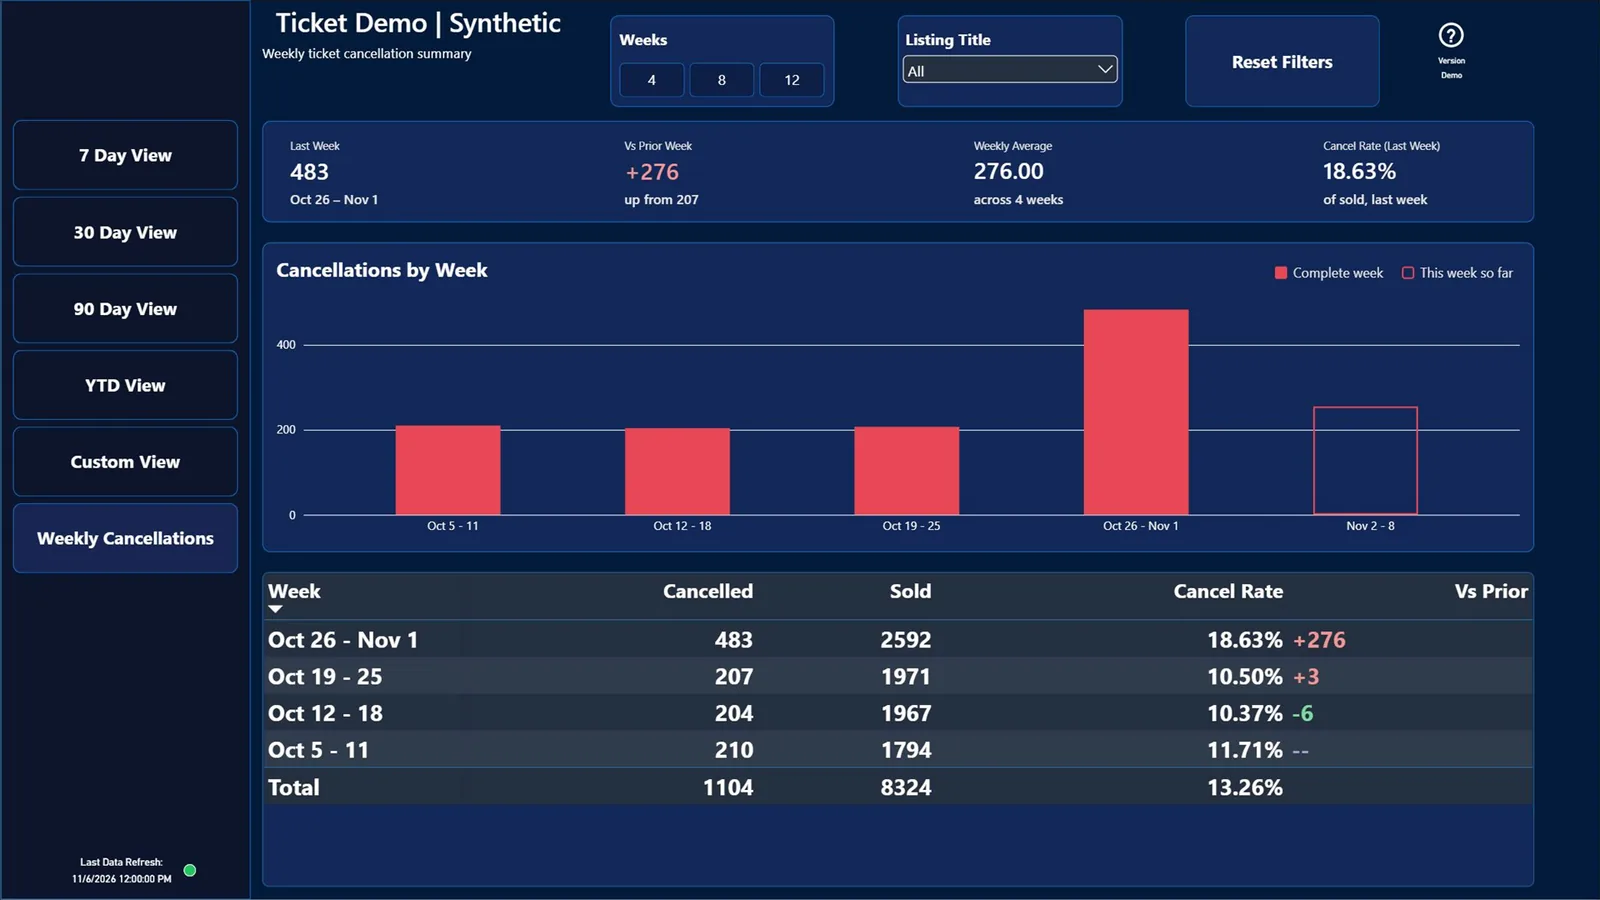
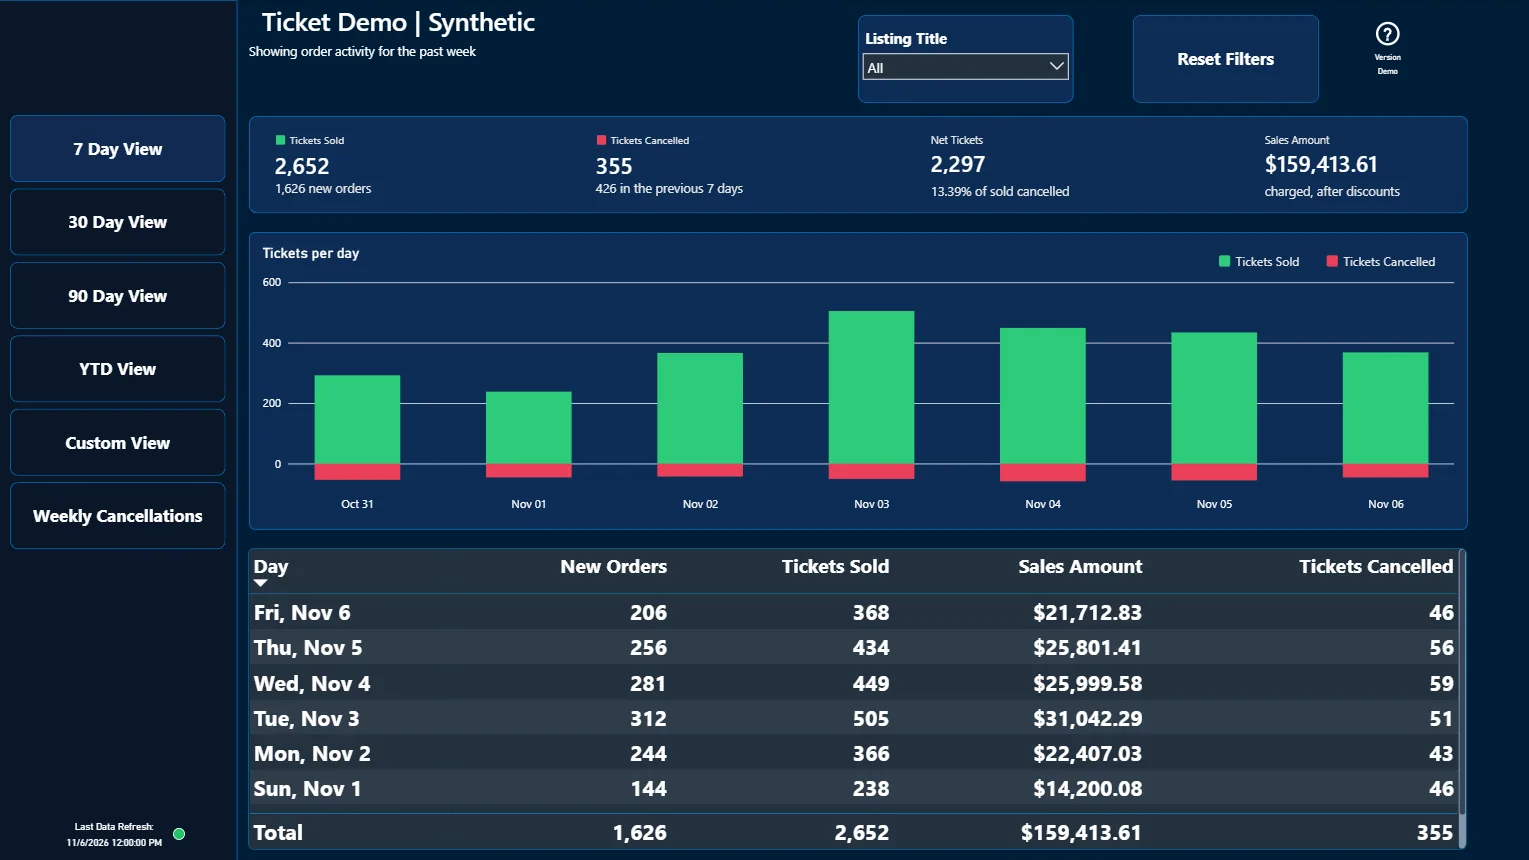
Add Jr ETL Developer role and Ticket Digest overview
- Experience: SurgeU (Oxlos Inc.) Jr ETL Developer entry with four
  bullets; first links to the Collections case study
- Toolkit adds SQL Server, Microsoft Fabric, Spark SQL, DAX, Make.com
- Layout: Toolkit and Work full width, Education and Certifications
  share the row below; bullet line length capped
- Fix hero badge stretching to full tile width
- Ticket Digest: new 7-day overview as card and page lead image;
  weekly cancellations moved below the text tiles
- Stylesheet version bumped to v=4

diff --git a/index.html b/index.html
@@ -15,7 +15,7 @@
   <link rel="preconnect" href="https://fonts.googleapis.com">
   <link rel="preconnect" href="https://fonts.gstatic.com" crossorigin>
   <link href="https://fonts.googleapis.com/css2?family=JetBrains+Mono&family=Plus+Jakarta+Sans:wght@400;500;600;800&display=swap" rel="stylesheet">
-  <link rel="stylesheet" href="css/site.css?v=3">
+  <link rel="stylesheet" href="css/site.css?v=4">
 </head>
 <body>
 
@@ -52,36 +52,40 @@
     </nav>
 
     <!-- Row 3: skills + certifications -->
-    <section class="tile tile--skills">
+    <section class="tile tile--wide tile--skills">
       <h2 class="label">Toolkit</h2>
       <ul class="chips">
-        <li>Python</li><li>pandas</li><li>SQL</li><li>Tableau</li>
-        <li>Power BI</li><li>Excel</li><li>C++</li><li>Java</li>
+        <li>Python</li><li>pandas</li><li>SQL</li><li>SQL Server</li>
+        <li>Microsoft Fabric</li><li>Spark SQL</li><li>Power BI</li><li>DAX</li>
+        <li>Tableau</li><li>Make.com</li><li>Excel</li><li>C++</li><li>Java</li>
       </ul>
     </section>
 
-    <section class="tile tile--certs">
-      <h2 class="label">Certifications</h2>
-      <ul class="certs">
-        <li><strong>CompTIA Security+</strong><span>2023 · renewed Jun 2026</span></li>
-        <li><strong>AWS Certified Cloud Practitioner</strong><span>Mar 2025</span></li>
-      </ul>
-    </section>
 
     <!-- Experience + education -->
     <h2 class="bento-heading" id="experience">Experience</h2>
 
-    <section class="tile tile--timeline" aria-labelledby="work-label">
+    <section class="tile tile--wide" aria-labelledby="work-label">
       <h3 class="label" id="work-label">Work</h3>
       <ol class="timeline">
-        <!-- TODO: Jr ETL Developer entry. Copy this shape:
         <li>
-          <span class="when">Mon YYYY – Present</span>
+          <span class="when">Jun 2025 – Nov 2026</span>
           <strong>Jr ETL Developer</strong>
-          <span class="where">Company</span>
-          <ul class="bullets"><li>…</li></ul>
+          <span class="where">SurgeU (Oxlos Inc.)</span>
+          <ul class="bullets">
+            <li>Built a scheduled Spark SQL notebook in Microsoft Fabric that MERGEs payment data
+                from 5 sources (~194K rows) into one Delta table, feeding the Power BI
+                <a href="projects/collections.html">collections dashboard</a> used by the sales team lead.</li>
+            <li>Cut the company's Make.com subscription 60% ($3,000 → $1,200/month, ~$21.6K/year)
+                by consolidating 100+ scenarios into universal variants and tuning run schedules.</li>
+            <li>Backfilled historical data into new SQL Server databases and automated class-roster
+                operations with stored procedures and SQL Server Agent jobs, including a production
+                job that populates rosters from HubSpot.</li>
+            <li>Built and maintained integrations across SQL Server, HubSpot, Monday.com, Close, Asana
+                and Wufoo, including ticket-sales webhook ingestion. As sole active admin from Oct 2025,
+                fixed silent failures in the highest-impact scenarios and added alerting.</li>
+          </ul>
         </li>
-        -->
         <li>
           <span class="when">Mar 2023 – Dec 2023</span>
           <strong>Computer Systems Engineer Intern</strong>
@@ -104,6 +108,13 @@
           <span class="where">University of South Florida</span>
         </li>
       </ol>
+    </section>
+    <section class="tile tile--certs">
+      <h3 class="label">Certifications</h3>
+      <ul class="certs">
+        <li><strong>CompTIA Security+</strong><span>2023 · renewed Jun 2026</span></li>
+        <li><strong>AWS Certified Cloud Practitioner</strong><span>Mar 2025</span></li>
+      </ul>
     </section>
 
     <!-- Projects -->
@@ -147,8 +158,8 @@
     </article>
 
     <article class="tile tile--project">
-      <img src="images/projects/pbi-ticket-digest.webp" width="1600" height="900" loading="lazy"
-           alt="Power BI weekly cancellations view with KPIs and a bar chart of cancellations by week">
+      <img src="images/projects/pbi-ticket-digest.webp" width="1529" height="860" loading="lazy"
+           alt="Power BI ticket dashboard with sold vs. cancelled KPIs and a daily bar chart">
       <div class="project-body">
         <div class="tags"><span class="pill">Power BI</span><span class="pill pill--muted">Synthetic data</span></div>
         <h3>Ticket Order Digest</h3>

diff --git a/projects/ticket-digest.html b/projects/ticket-digest.html
@@ -13,7 +13,7 @@
   <link rel="preconnect" href="https://fonts.googleapis.com">
   <link rel="preconnect" href="https://fonts.gstatic.com" crossorigin>
   <link href="https://fonts.googleapis.com/css2?family=JetBrains+Mono&family=Plus+Jakarta+Sans:wght@400;500;600;800&display=swap" rel="stylesheet">
-  <link rel="stylesheet" href="../css/site.css?v=3">
+  <link rel="stylesheet" href="../css/site.css?v=4">
 </head>
 <body>
 
@@ -34,12 +34,10 @@
          and cancellations, both for the latest week and over longer periods.</p>
     </section>
 
-    <!-- TODO: add the 7-Day View overview screenshot here (full width) once re-exported -->
-
     <figure class="tile tile--wide shot">
-      <img src="../images/projects/pbi-ticket-digest.webp" width="1600" height="900"
-           alt="Weekly Cancellations view: KPIs for last week, a bar chart of cancellations by week with the current partial week outlined, and a weekly table">
-      <figcaption>Weekly Cancellations: last complete week vs. prior, with the in-progress week outlined.</figcaption>
+      <img src="../images/projects/pbi-ticket-digest.webp" width="1529" height="860"
+           alt="7-Day View: KPIs for tickets sold, cancelled, net and sales, a daily bar chart of sold vs. cancelled tickets, and a daily table">
+      <figcaption>7-Day View: sold vs. cancelled by day, with comparison to the previous 7 days.</figcaption>
     </figure>
 
     <section class="tile tile--half prose">
@@ -66,6 +64,12 @@
         <li><strong>Tooltip page</strong> with daily detail on hover.</li>
       </ul>
     </section>
+
+    <figure class="tile tile--wide shot">
+      <img src="../images/projects/ticket-weekly-cancellations.webp" width="1600" height="900" loading="lazy"
+           alt="Weekly Cancellations view: KPIs for last week, a bar chart of cancellations by week with the current partial week outlined, and a weekly table">
+      <figcaption>Weekly Cancellations: last complete week vs. prior, with the in-progress week outlined.</figcaption>
+    </figure>
 
     <aside class="tile tile--wide data-note">
       <h2 class="label">Data</h2>

diff --git a/css/site.css b/css/site.css
@@ -88,6 +88,7 @@ a { color: inherit; }
   justify-content: space-between;
   gap: 32px;
 }
+.tile--hero .pill { align-self: flex-start; }  /* don't stretch to the tile's width */
 .tile--hero h1 {
   font-size: clamp(36px, 5vw, 60px);
   font-weight: 800;
@@ -168,8 +169,9 @@ a { color: inherit; }
 .timeline .when { font-family: var(--mono); font-size: 12px; color: var(--accent); }
 .timeline strong { font-size: 17px; margin-top: 2px; }
 .timeline .where { color: var(--muted); font-size: 15px; }
-.bullets { margin-top: 8px; padding-left: 18px; color: var(--muted); font-size: 15px; }
+.bullets { margin-top: 8px; padding-left: 18px; color: var(--muted); font-size: 15px; max-width: 820px; }
 .bullets li + li { margin-top: 4px; }
+.bullets a { color: var(--accent); }
 
 /* ---------- project tiles ---------- */
 .tile--project {

diff --git a/projects/audience-strength.html b/projects/audience-strength.html
@@ -13,7 +13,7 @@
   <link rel="preconnect" href="https://fonts.googleapis.com">
   <link rel="preconnect" href="https://fonts.gstatic.com" crossorigin>
   <link href="https://fonts.googleapis.com/css2?family=JetBrains+Mono&family=Plus+Jakarta+Sans:wght@400;500;600;800&display=swap" rel="stylesheet">
-  <link rel="stylesheet" href="../css/site.css?v=3">
+  <link rel="stylesheet" href="../css/site.css?v=4">
 </head>
 <body>
 

diff --git a/projects/collections.html b/projects/collections.html
@@ -13,7 +13,7 @@
   <link rel="preconnect" href="https://fonts.googleapis.com">
   <link rel="preconnect" href="https://fonts.gstatic.com" crossorigin>
   <link href="https://fonts.googleapis.com/css2?family=JetBrains+Mono&family=Plus+Jakarta+Sans:wght@400;500;600;800&display=swap" rel="stylesheet">
-  <link rel="stylesheet" href="../css/site.css?v=3">
+  <link rel="stylesheet" href="../css/site.css?v=4">
 </head>
 <body>
 

diff --git a/projects/promo-tracking.html b/projects/promo-tracking.html
@@ -13,7 +13,7 @@
   <link rel="preconnect" href="https://fonts.googleapis.com">
   <link rel="preconnect" href="https://fonts.gstatic.com" crossorigin>
   <link href="https://fonts.googleapis.com/css2?family=JetBrains+Mono&family=Plus+Jakarta+Sans:wght@400;500;600;800&display=swap" rel="stylesheet">
-  <link rel="stylesheet" href="../css/site.css?v=3">
+  <link rel="stylesheet" href="../css/site.css?v=4">
 </head>
 <body>
 
